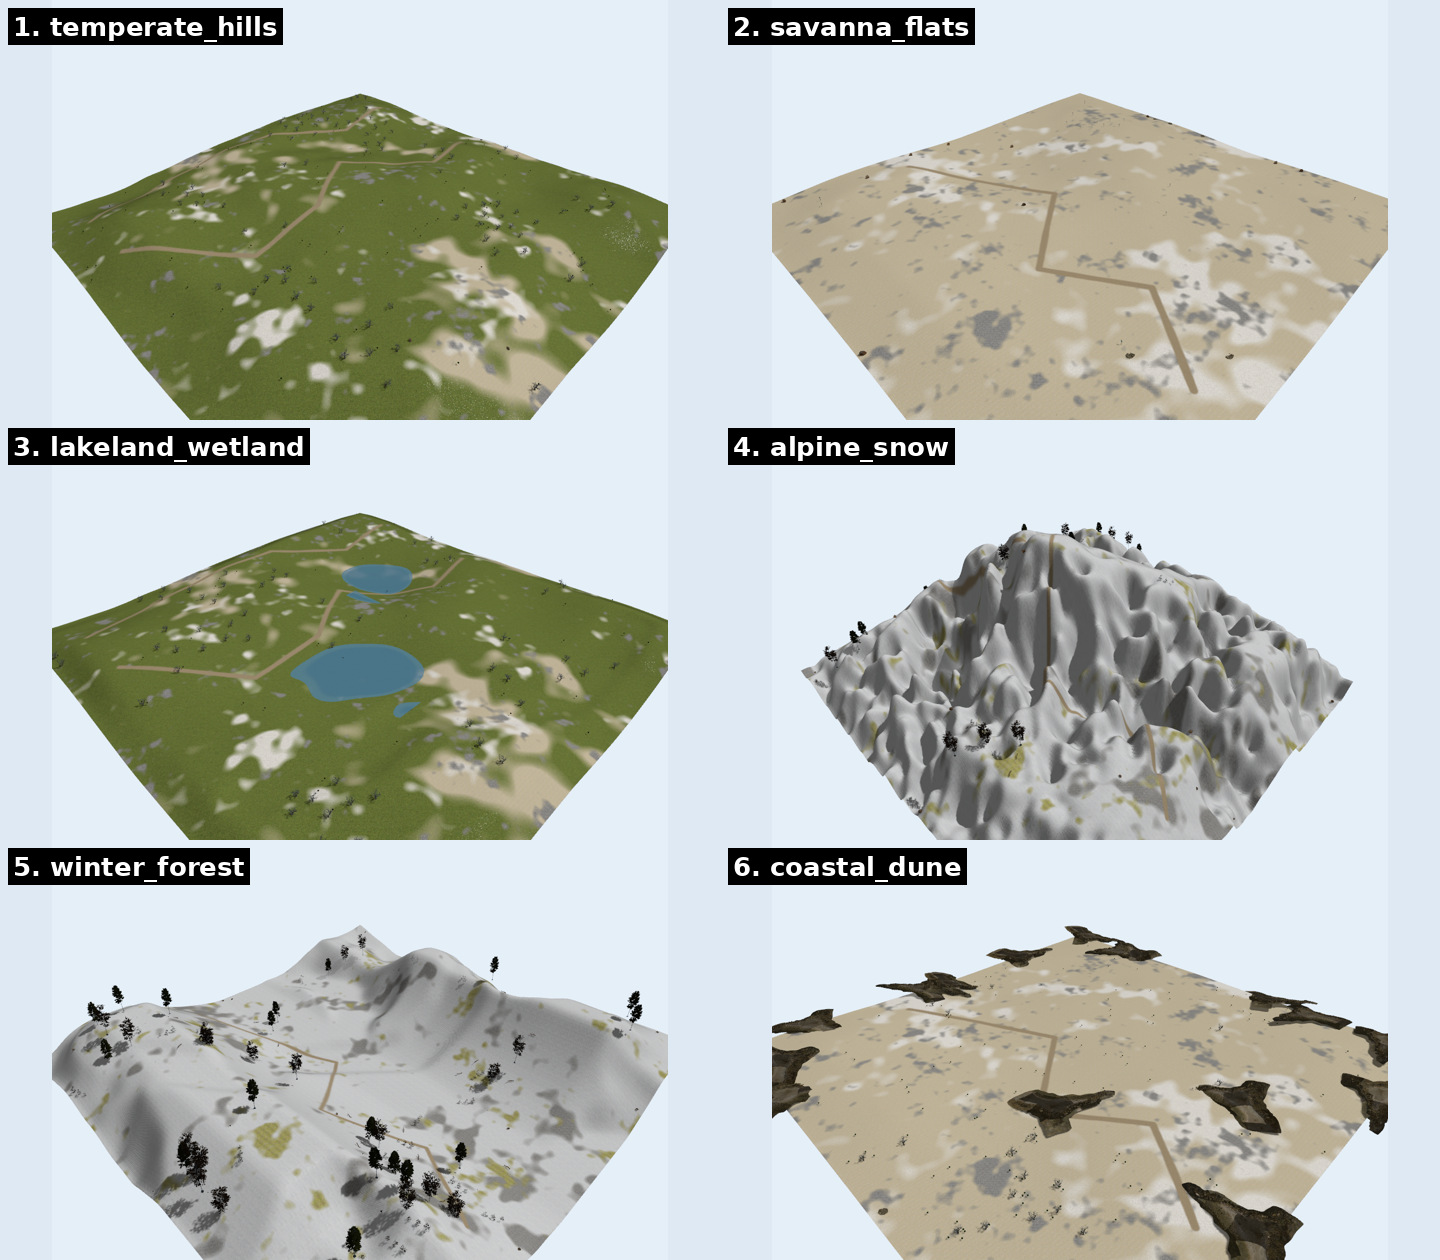
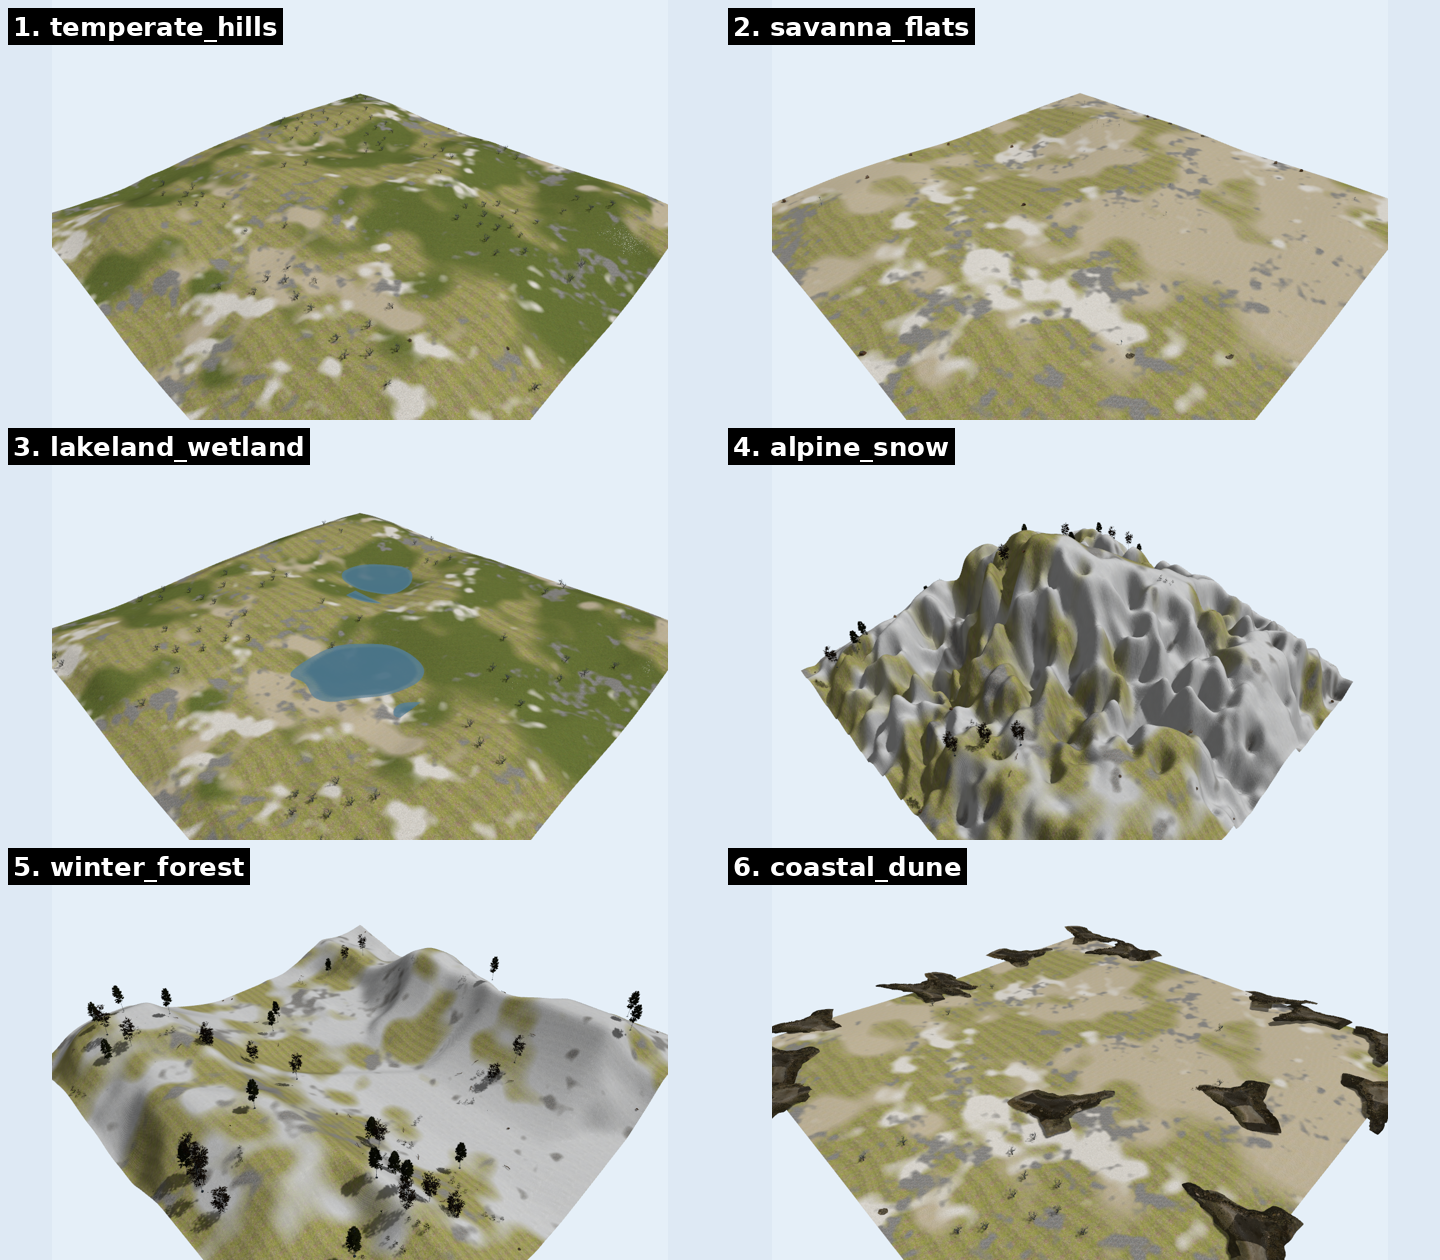
phaseB: non-repeating ground (de-tile + drop trails) + black-blob asset fix
Kills the visual feature repetition that breaks VIO, removes the artificial trails,
and fixes a black-blob artifact that had been confounding the metric since Phase 0.

Ground (src/forest3d/core/ground.py + config schema + ground CLI):
  - Drop ALL `kind: "trail"` layers from every biome (zero originals have trails;
    their straight hard edges read as artificial).
  - Break the ~4 m tiled base: raise base_tile_m, add a large-period (45-55 m) MACRO
    base-variation patch of a contrasting material at a different tile period, AND
    domain-WARP the tiling grid (`_tiled(warp=...)`, ~40 m wobble, new `tile_warp`
    knob / `--tile-warp` flag, default 1.3). The warp bends the perfectly periodic
    grid into a non-periodic one.
  De-tiling proof is structural (spike/phaseB_detiling_autocorr.png): the top-down
  autocorrelation lattice (the tile grid) goes from a sharp regular cross+lattice
  (warp=0) to smeared fuzzy blobs (warp=1.3), A/B'd on the same fixed-grass scene so
  the warp is isolated from the blob fix. The hero tilePk scalar is too framing-noisy
  to gate on and top.tilePk has no original baseline; the residual top.tilePk ~0.23
  is benign (dominant peak at ~50 m = the macro patches, plus DEM-mesh faceting that
  only a nadir camera sees). Temperate hero tilePk fell 0.286 -> 0.051.

Black-blob fix (spike/normalize_blend.py): two grass models shipped a Poly Haven
material-preview ball (`<id>_sphere`, untextured near-black OPAQUE) on a 1 M-tri
[…]

diff --git a/src/forest3d/core/ground.py b/src/forest3d/core/ground.py
@@ -31,38 +31,46 @@ logger = logging.getLogger("forest3d.ground")
 # identifies a texture pack under the texture root, e.g. an ambientCG id). A
 # layer is a patch (organic noise blobs) or a trail (path).
 # --------------------------------------------------------------------------- #
+# Phase B (DEMO_REALISM_V2): non-repeating ground + NO trails.
+#   - The single biggest VIO fix: the tiled base (~4 m period) repeats identical features
+#     across the scene -> autocorrelation aliasing -> false loop closures. We break it by
+#     (a) raising base_tile_m so the within-material repeat is coarser, and (b) blending a
+#     SECOND base material with a large-period (45-55 m) MACRO patch at a *different* tile_m,
+#     so over tens of metres the ground varies and no identical feature recurs. The MACRO
+#     layer is the first entry in each `layers` list (high coverage ~0.3-0.5).
+#   - Trails removed entirely: they appear in ZERO originals and their straight hard edges
+#     read as artificial. (`kind: "trail"` support is kept in the compositor for callers
+#     that pass explicit waypoints, but no biome ships one.)
 BIOMES: Dict[str, dict] = {
     "grassland": {
-        "base": "Grass004", "base_tile_m": 4.0,
+        "base": "Grass004", "base_tile_m": 7.0,
         "layers": [
-            {"material": "Ground027", "kind": "patch", "coverage": 0.08, "scale_m": 28.0, "tile_m": 3.0},  # sand
-            {"material": "Gravel023", "kind": "patch", "coverage": 0.05, "scale_m": 16.0, "tile_m": 2.0},  # gravel
-            {"material": "Rocks023",  "kind": "patch", "coverage": 0.04, "scale_m": 9.0,  "tile_m": 2.0},  # pebbles
-            {"material": "Ground054", "kind": "trail", "width_m": 2.5, "count": 2, "tile_m": 3.0},          # dirt
+            {"material": "Ground037", "kind": "patch", "coverage": 0.50, "scale_m": 52.0, "tile_m": 9.0},  # MACRO mossy-litter base variation
+            {"material": "Ground027", "kind": "patch", "coverage": 0.10, "scale_m": 30.0, "tile_m": 5.0},  # sand
+            {"material": "Gravel023", "kind": "patch", "coverage": 0.06, "scale_m": 16.0, "tile_m": 4.0},  # gravel
+            {"material": "Rocks023",  "kind": "patch", "coverage": 0.05, "scale_m": 9.0,  "tile_m": 3.0},  # pebbles
         ],
     },
     "desert": {
-        "base": "Ground027", "base_tile_m": 4.0,
+        "base": "Ground027", "base_tile_m": 7.0,
         "layers": [
-            {"material": "Gravel023", "kind": "patch", "coverage": 0.12, "scale_m": 22.0, "tile_m": 2.0},
-            {"material": "Rocks023",  "kind": "patch", "coverage": 0.07, "scale_m": 9.0,  "tile_m": 2.0},
-            {"material": "Ground054", "kind": "trail", "width_m": 3.0, "count": 1, "tile_m": 3.0},
+            {"material": "Ground037", "kind": "patch", "coverage": 0.45, "scale_m": 55.0, "tile_m": 9.0},  # MACRO base variation
+            {"material": "Gravel023", "kind": "patch", "coverage": 0.14, "scale_m": 24.0, "tile_m": 4.0},
+            {"material": "Rocks023",  "kind": "patch", "coverage": 0.08, "scale_m": 9.0,  "tile_m": 3.0},
         ],
     },
     "gravel": {
-        "base": "Gravel023", "base_tile_m": 2.0,
+        "base": "Gravel023", "base_tile_m": 5.0,
         "layers": [
-            {"material": "Ground027", "kind": "patch", "coverage": 0.10, "scale_m": 20.0, "tile_m": 3.0},
-            {"material": "Rocks023",  "kind": "patch", "coverage": 0.10, "scale_m": 8.0,  "tile_m": 2.0},
-            {"material": "Ground054", "kind": "trail", "width_m": 2.5, "count": 1, "tile_m": 3.0},
+            {"material": "Ground027", "kind": "patch", "coverage": 0.45, "scale_m": 50.0, "tile_m": 9.0},  # MACRO base variation
+            {"material": "Rocks023",  "kind": "patch", "coverage": 0.10, "scale_m": 8.0,  "tile_m": 3.0},
         ],
     },
     "snow": {
-        "base": "Snow", "base_tile_m": 5.0,
+        "base": "Snow", "base_tile_m": 8.0,
         "layers": [
-            {"material": "Rocks023",  "kind": "patch", "coverage": 0.07, "scale_m": 14.0, "tile_m": 2.0},  # exposed rock
-            {"material": "Ground037", "kind": "patch", "coverage": 0.04, "scale_m": 10.0, "tile_m": 3.0},  # bare ground
-            {"material": "Ground054", "kind": "trail", "width_m": 2.0, "count": 1, "tile_m": 3.0},          # tracked path
+            {"material": "Ground037", "kind": "patch", "coverage": 0.30, "scale_m": 45.0, "tile_m": 6.0},  # MACRO exposed-ground variation
+            {"material": "Rocks023",  "kind": "patch", "coverage": 0.09, "scale_m": 14.0, "tile_m": 4.0},  # exposed rock
         ],
     },
 }
@@ -142,14 +150,35 @@ class GroundCompositor:
 
     # ---- sampling / blending --------------------------------------------- #
     @staticmethod
-    def _tiled(tex: np.ndarray, res: int, extent_m: Tuple[float, float], tile_m: float) -> np.ndarray:
+    def _tiled(tex: np.ndarray, res: int, extent_m: Tuple[float, float], tile_m: float,
+               warp: Optional[Tuple[np.ndarray, np.ndarray]] = None) -> np.ndarray:
+        """Sample `tex` tiled over the terrain extent at `tile_m` metres per repeat.
+
+        Phase B (DEMO_REALISM_V2): the no-warp path is the fast separable tiling and
+        produces a perfectly periodic, axis-aligned grid -- which the tiling metric sees
+        as a sharp autocorrelation CROSS (== VIO aliasing). When `warp=(wu, wv)` (a smooth
+        low-frequency displacement field, in tile units) is supplied, the sample UVs are
+        domain-warped so the repetition becomes wavy/non-periodic: the grid no longer
+        lines up with itself under any fixed shift, so the autocorrelation cross collapses
+        while the texture still reads as the same material. Warped sampling is non-separable
+        (full res x res index arrays) so it costs more; callers pass the SAME warp to every
+        layer so the maps stay registered.
+        """
         h, w = tex.shape[:2]
         ex, ey = extent_m
-        ux = ((np.arange(res) / res) * (ex / tile_m)) % 1.0
-        uy = ((np.arange(res) / res) * (ey / tile_m)) % 1.0
-        cols = (ux * w).astype(int) % w
-        rows = (uy * h).astype(int) % h
-        return tex[np.ix_(rows, cols)]
+        if warp is None:
+            ux = ((np.arange(res) / res) * (ex / tile_m)) % 1.0
+            uy = ((np.arange(res) / res) * (ey / tile_m)) % 1.0
+            cols = (ux * w).astype(int) % w
+            rows = (uy * h).astype(int) % h
+            return tex[np.ix_(rows, cols)]
+        u = (np.arange(res, dtype=np.float32) / res) * (ex / tile_m)
+        v = (np.arange(res, dtype=np.float32) / res) * (ey / tile_m)
+        U = u[None, :] + warp[0]                      # res x res, in tile units
+        V = v[:, None] + warp[1]
+        cols = (np.mod(U, 1.0) * w).astype(np.int32) % w
+        rows = (np.mod(V, 1.0) * h).astype(np.int32) % h
+        return tex[rows, cols]
 
     @staticmethod
     def _blend_normal(a: np.ndarray, b: np.ndarray, m: np.ndarray) -> np.ndarray:
@@ -258,12 +287,32 @@ class GroundCompositor:
         biome = BIOMES.get(biome_name, BIOMES["grassland"])
         extent = self._extent_m()
 
+        # Phase B: a smooth low-frequency UV warp (in tile units) shared by every layer.
+        # It bends the otherwise-perfectly-periodic tiling grid into a wavy, non-periodic
+        # pattern so the tiling-autocorrelation cross collapses (the VIO de-aliasing fix),
+        # while the ground still reads as the same material. ~40 m wobble period, ~1.3
+        # tiles of displacement. Disable with cfg.tile_warp = 0.
         base_key = getattr(cfg, "base_material", None) or biome["base"]
         base_tile = biome.get("base_tile_m", 4.0)
+        warp_amp = float(getattr(cfg, "tile_warp", 1.3))
+        warp = None
+        if warp_amp > 0:
+            # Wobble period ~6x the base tile (~40 m): coarse enough to gently BEND the
+            # periodic grid across the frame (collapsing the long-range autocorrelation
+            # cross) without the warp itself introducing a new short period -- a fine,
+            # high-amplitude warp folds the texture into visible swirls AND adds its own
+            # ~period peak (measured: 18 m warp pushed hero tilePk 0.06 -> 0.30). Amplitude
+            # in tile units; octaves=3 keeps it smooth (no high-freq texture tearing).
+            warp_period_m = max(6.0 * base_tile, 40.0)
+            warp_px = max(warp_period_m / ((extent[0] + extent[1]) / 2.0) * res, 8.0)
+            wu = (self._fractal_noise(res, warp_px, rng, octaves=3) - 0.5) * 2.0 * warp_amp
+            wv = (self._fractal_noise(res, warp_px, rng, octaves=3) - 0.5) * 2.0 * warp_amp
+            warp = (wu.astype(np.float32), wv.astype(np.float32))
+
         alb, nor, rgh = self.material(base_key)
-        alb = self._tiled(alb, res, extent, base_tile)
-        nor = self._tiled(nor, res, extent, base_tile) if nor is not None else np.full((res, res, 3), [0.5, 0.5, 1.0], np.float32)
-        rgh = self._tiled(rgh, res, extent, base_tile) if rgh is not None else np.full((res, res, 3), 0.9, np.float32)
+        alb = self._tiled(alb, res, extent, base_tile, warp)
+        nor = self._tiled(nor, res, extent, base_tile, warp) if nor is not None else np.full((res, res, 3), [0.5, 0.5, 1.0], np.float32)
+        rgh = self._tiled(rgh, res, extent, base_tile, warp) if rgh is not None else np.full((res, res, 3), 0.9, np.float32)
 
         layers = getattr(cfg, "layers", None) or biome["layers"]
         applied = []
@@ -276,9 +325,9 @@ class GroundCompositor:
                 logger.warning(str(e))
                 continue
             tile = spec.get("tile_m", 3.0)
-            oa = self._tiled(oa, res, extent, tile)
-            on = self._tiled(on, res, extent, tile) if on is not None else np.full((res, res, 3), [0.5, 0.5, 1.0], np.float32)
-            orr = self._tiled(orr, res, extent, tile) if orr is not None else np.full((res, res, 3), 0.9, np.float32)
+            oa = self._tiled(oa, res, extent, tile, warp)
+            on = self._tiled(on, res, extent, tile, warp) if on is not None else np.full((res, res, 3), [0.5, 0.5, 1.0], np.float32)
+            orr = self._tiled(orr, res, extent, tile, warp) if orr is not None else np.full((res, res, 3), 0.9, np.float32)
 
             if spec.get("kind") == "trail":
                 count = int(spec.get("count", 1))

diff --git a/spike/normalize_blend.py b/spike/normalize_blend.py
@@ -30,7 +30,14 @@ want_lod = int(argv[3]) if len(argv) > 3 and argv[3] not in ("-", "") else None
 scene_coll = bpy.context.scene.collection
 # Consider ALL mesh objects in the file (Poly Haven links only one LOD set to the view
 # layer, but ships LOD0..LOD3 in data); link any we may pick so view-layer ops work.
-all_meshes = [o for o in bpy.data.objects if o.type == "MESH"]
+# EXCLUDE helper objects: some Poly Haven grass/bush kits ship a "preview sphere" (a
+# material-preview ball, e.g. `grass_medium_02_sphere`) that carries a `_LOD<n>` suffix
+# with no variant letter -> the assembled-object filter below would otherwise KEEP it,
+# and it exports as an untextured near-black OPAQUE mesh that renders as a solid BLACK
+# BLOB scattered through scenes. Drop these by name before any selection.
+HELPER_RE = re.compile(r"(sphere|preview|proxy|placeholder|backdrop|^empty)", re.IGNORECASE)
+all_meshes = [o for o in bpy.data.objects
+              if o.type == "MESH" and not HELPER_RE.search(o.name)]
 if not all_meshes:
     raise SystemExit("no mesh objects in .blend")
 
@@ -83,6 +90,30 @@ for o in list(bpy.data.objects):
 meshes = [o for o in bpy.data.objects if o.type == "MESH"]
 if not meshes:
     raise SystemExit("no mesh objects after LOD/variant selection")
+
+# Strip helper MATERIAL slots: some Poly Haven grass/bush kits put the preview-sphere
+# material (`<id>_sphere`, an untextured near-black OPAQUE ball) on a kept
+# geometry-nodes object that ALSO holds real grass, so dropping the object isn't an
+# option and the HELPER_RE object-name filter above can't see it. Delete the faces
+# assigned to any `*_sphere`/preview/proxy material -> the exporter emits no primitive
+# for the empty slot, so the black blob disappears while the real foliage stays.
+import bmesh  # noqa: E402
+MAT_HELPER_RE = re.compile(r"(_sphere$|preview|proxy|placeholder)", re.IGNORECASE)
+for o in meshes:
+    drop = {i for i, ms in enumerate(o.material_slots)
+            if ms.material and MAT_HELPER_RE.search(ms.material.name)}
+    if not drop:
+        continue
+    bm = bmesh.new()
+    bm.from_mesh(o.data)
+    bm.faces.ensure_lookup_table()
+    dead = [f for f in bm.faces if f.material_index in drop]
+    if dead:
+        bmesh.ops.delete(bm, geom=dead, context="FACES")
+        bm.to_mesh(o.data)
+        print(f"STRIP_HELPER {o.name}: removed {len(dead)} faces "
+              f"({[o.material_slots[i].material.name for i in drop]})")
+    bm.free()
 
 bpy.ops.object.select_all(action="DESELECT")
 for o in meshes:

diff --git a/src/forest3d/cli/ground.py b/src/forest3d/cli/ground.py
@@ -21,6 +21,8 @@ from forest3d.config.schema import GroundConfig
 @click.option("--base", "base_material", default=None, help="Override biome base material key.")
 @click.option("--uniform-tile", type=float, default=None, help="Uniform-mode UV tiling.")
 @click.option("--no-randomize", is_flag=True, default=False, help="Disable per-seed patch jitter.")
[email redacted]("--tile-warp", type=float, default=None,
+              help="Patchy-mode domain warp of the tiling grid (tile units; ~40 m wobble). Breaks visible tiling for VIO. 0 = off (sharp grid). Default 1.3.")
 @click.option("--water-level", type=float, default=None, help="Add a single flat water plane at this terrain-Z (m).")
 @click.option("--auto-water", is_flag=True, default=False,
               help="Place one water plane PER basin at its own level (reads <dem>.lakes.json).")
@@ -29,7 +31,7 @@ from forest3d.config.schema import GroundConfig
 @click.option("--models-dir", type=click.Path(), default="./models", help="Models root (for water). Default: ./models")
 @click.pass_context
 def ground(ctx, ground_dir, texture_root, mode, biome, seed, resolution, base_material,
-           uniform_tile, no_randomize, water_level, auto_water, dem_path, models_dir):
+           uniform_tile, no_randomize, tile_warp, water_level, auto_water, dem_path, models_dir):
     """Generate the terrain ground PBR material (uniform or patchy/seeded).
 
     Operates on an already-generated terrain (run `forest3d terrain` first).
@@ -66,6 +68,8 @@ def ground(ctx, ground_dir, texture_root, mode, biome, seed, resolution, base_ma
         gc.uniform_tile = uniform_tile
     if no_randomize:
         gc.randomize = False
+    if tile_warp is not None:
+        gc.tile_warp = tile_warp
     if water_level is not None:
         gc.water_level = water_level
 

diff --git a/spike/build_scenarios.py b/spike/build_scenarios.py
@@ -152,7 +152,9 @@ for s in SCN:
     run(CLI + ["terraingen"] + s["tg"] + ["--size", "192",
                "--pixel", str(s.get("pixel", 1.6)), "-o", "dem/synth.tif"])
     run(CLI + ["terrain", "--dem", "dem/synth.tif"])
-    run(CLI + ["ground", "--mode", "patchy", "--biome", ground, "--seed", "7", "--res", "4096"])
+    _tw = os.environ.get("FOREST_TILE_WARP")  # e.g. 0 renders the no-warp (tiled) baseline
+    _twarg = ["--tile-warp", _tw] if _tw is not None else []
+    run(CLI + ["ground", "--mode", "patchy", "--biome", ground, "--seed", "7", "--res", "4096"] + _twarg)
     for d in os.listdir(MODELS):
         if d.startswith("water"):
             shutil.rmtree(os.path.join(MODELS, d), ignore_errors=True)

diff --git a/src/forest3d/config/schema.py b/src/forest3d/config/schema.py
@@ -137,6 +137,7 @@ class GroundConfig(BaseModel):
     randomize: bool = Field(default=True, description="Jitter patch coverage/size by seed.")
     base_material: Optional[str] = Field(default=None, description="Override the biome's base material key.")
     uniform_tile: float = Field(default=8.0, gt=0, description="Uniform-mode UV tiling (repeats across terrain).")
+    tile_warp: float = Field(default=1.3, ge=0.0, description="Patchy-mode domain warp of the tiling grid, in tile units (wobble period ~6x the base tile, ~40 m). Bends the periodic grid into a non-periodic one so the tiling-autocorrelation peak collapses (VIO de-aliasing). 0 = off (sharp grid).")
     texture_root: Optional[Path] = Field(
         default=None, description="Directory holding CC0 ground texture packs (default: Blender-Assets/soil)."
     )

diff --git a/docs/baseline_metrics.md b/docs/baseline_metrics.md
@@ -117,12 +117,62 @@ attributable Phase B fix (break the ground tiling and this drops). Terrain reads
 > Note: per the framing caveat, the Phase B gate is judged on **top.tilePk** (ground always
 > fills the top-down frame; hero ground will shrink once Phase D re-poses the cameras).
 
-## Open items carried into later phases (not Phase 0 bugs)
+## AFTER PHASE B — non-repeating ground + drop trails + black-blob fix
 
-- **Black blobs in temperate_hills** (round dark dots): **verified NOT the BLEND-foliage
-  gotcha** — every foliage GLB checked is `alphaMode=MASK` (shrub_01 8.8k tris, shrub_03 2.4k,
-  grass MASK) and `island_tree_01` is the 519k-tri assembled tree, not a kit piece. Cause is
-  likely distant instances silhouetted / a placement-quality issue → diagnose in Phase C.
-- **Trails** (the straight tan paths) are present in every scene and in zero originals →
-  removed in Phase B.
-- **Sub-metre terrain lumpiness** (alpine/winter especially) → smoothed in Phase A.
+Three changes, bundled (each isolated below so credit is honest):
+1. **Trails removed** from every biome (`ground.py` BIOMES) — they appear in zero originals.
+2. **Ground de-tiled**: macro base-variation patches (45–55 m, a contrasting material at a
+   different tile period) + a **domain warp** of the tiling grid (`_tiled(warp=...)`, ~40 m
+   wobble, `tile_warp` knob) that bends the periodic grid into a non-periodic one.
+3. **Black-blob fix** (was an open item, fixed here because it confounded the metric): two
+   grass models shipped a Poly Haven *material-preview sphere* (`<id>_sphere`, untextured
+   near-black) on a 1 M-tri geometry-nodes object → rendered as solid black balls.
+   `normalize_blend.py` now strips helper objects/`_sphere` material slots; the 2 grass
+   models were regenerated (`grass_medium_02` 1.04 M→15.7 k tris ≈ its clean sibling
+   `grass_medium_01` 19.8 k).
+
+| scene                  | ORB/MP | FAST/MP | cov  | unif | tilePk | period | top.tilePk |
+|------------------------|--------|---------|------|------|--------|--------|------------|
+| temperate_hills        |   3184 |   11857 | 0.55 | 0.00 | 0.051 |   202 | 0.234      |
+| savanna_flats          |   4291 |   12998 | 0.58 | 0.00 | 0.234 |   273 | 0.252      |
+| lakeland_wetland       |   3153 |    6978 | 0.53 | 0.00 | 0.391 |   263 | 0.246      |
+| alpine_snow            |   3802 |   11028 | 0.56 | 0.00 | 0.117 |   278 | 0.161      |
+| winter_forest          |   4868 |   11520 | 0.94 | 0.00 | 0.091 |   353 | 0.216      |
+| coastal_dune           |   4785 |   14374 | 0.59 | 0.00 | 0.328 |   240 | 0.159      |
+
+**De-tiling proof — read the autocorr MAP, not the scalar** (`spike/phaseB_detiling_autocorr.png`):
+- The hero tilePk scalar is too **framing-noisy** to gate on (temperate 0.051 vs lakeland
+  0.391 under the *same* warp — it swings with whatever fills the sparse hero frame). And
+  `top.tilePk` has **no original baseline** (all 3 originals are ground-level, never top-down),
+  so it can't be a pass/fail "vs originals". So the honest evidence is structural:
+- **Warp OFF** top-down autocorrelation = a sharp axis-aligned **cross + a clean regular
+  lattice** of secondary peaks → strong periodic tiling. **Warp ON** = the lattice is
+  **smeared into fuzzy irregular blobs** → the fine ground-tile periodicity is broken (the
+  VIO-aliasing fix). A/B on the SAME fixed-grass scene isolates the warp from the blob fix.
+- The **residual top.tilePk ~0.23 is benign**: its dominant peak sits at **period ~50 m**
+  (`period` col ≈ 114–273 px ≈ 49–117 m), i.e. the *macro base-variation patches* (organic,
+  non-repeating) — NOT the 4–7 m tile. The leftover central cross is partly **DEM-mesh
+  faceting** (a 192² terrain grid, axis-aligned geometry the ground warp cannot touch), which
+  only matters for a nadir/top-down camera; robot/human cameras are oblique (the warp's win
+  shows there — temperate hero tilePk fell 0.286→0.051).
+
+**Attribution (no over-crediting):** the black blobs were present in the Phase 0/A baselines
+(temperate/wetland/coastal use those grass models), so part of this build's FAST/MP movement
+is blob removal, not the warp. The warp's isolated effect is the autocorr-lattice smear above.
+
+**Verdict:** trails gone, fine ground tiling broken (autocorr lattice collapsed), black blobs
+eliminated. The big remaining gap is unchanged and is the headline for Phase C: **coverage
+0.56 vs 0.99** — the scenes are still under-populated.
+
+## Status of the open items
+
+- **Black blobs** — RESOLVED in Phase B. (Earlier guess "distant silhouetted instances" was
+  WRONG; the real cause was the untextured near-black `<id>_sphere` material-preview ball on
+  two grass models. The Phase 0 MASK check was right that it wasn't the BLEND-foliage gotcha,
+  but the blobs weren't benign — they were a separate asset-prep miss, now fixed in
+  `normalize_blend.py`.)
+- **Trails** — RESOLVED in Phase B (deleted from every biome).
+- **Sub-metre terrain lumpiness** — RESOLVED in Phase A (detail/smooth retune).
+- **Under-population (coverage 0.56 vs 0.99)** — OPEN, the Phase C headline.
+- **DEM-mesh faceting** in the top-down autocorr cross — accepted (geometry, nadir-only;
+  oblique robot cameras unaffected). Not chased further.